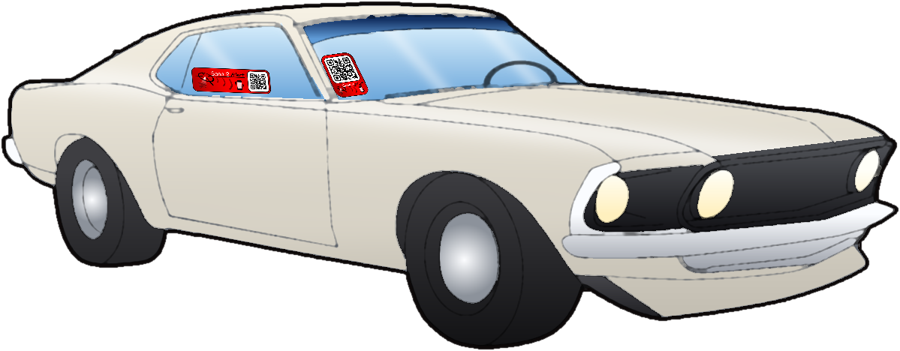
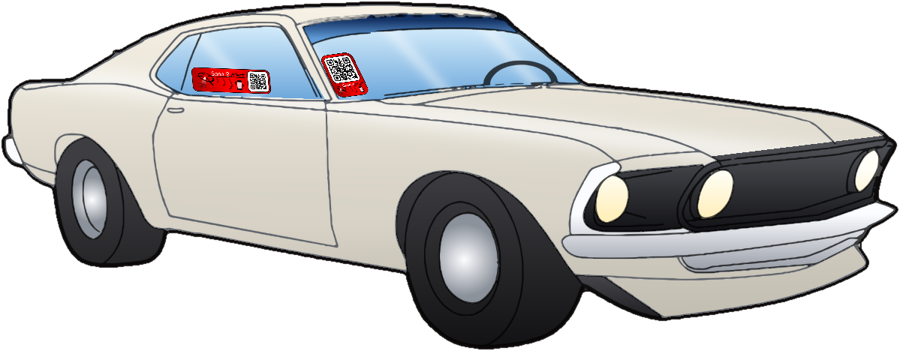
Mustang: líneas vectorizadas, lisas y rectas
Claude-Session: https://claude.ai/code/session_013R8ZDYyWaBdvK9dXFoGibW

diff --git a/index.html b/index.html
@@ -172,7 +172,7 @@ footer a{color:#fff;text-decoration:none}
   <h2>Un ejemplo: tu coche</h2>
   <p class="sub">Luces encendidas, mal aparcado, un golpe… Te avisan en segundos, sin tu número.<br><b style="color:var(--ink)">Quien escanea no necesita ninguna app: basta con la cámara del móvil.</b></p>
   <div class="carrow">
-    <figure class="cf big"><img class="tint" src="/img/mustang.png?v=3" alt="Mustang con las pegatinas Scan 2 Alert en el parabrisas y la ventanilla"><figcaption>Pégala por dentro del cristal, en espejo.<br>Elige un rojo intenso o un color más discreto: <span class="sw"><button type="button" class="swb on" data-c="#fe0000" title="Rojo" aria-label="Rojo" style="background:#fe0000"></button><button type="button" class="swb" data-c="#ff3300" title="Naranja" aria-label="Naranja" style="background:#ff3300"></button><button type="button" class="swb" data-c="#f6df00" title="Amarillo" aria-label="Amarillo" style="background:#f6df00"></button><button type="button" class="swb" data-c="#2e9e3a" title="Verde" aria-label="Verde" style="background:#2e9e3a"></button><button type="button" class="swb" data-c="#f0599b" title="Rosa" aria-label="Rosa" style="background:#f0599b"></button><button type="button" class="swb" data-c="#004c98" title="Azul" aria-label="Azul" style="background:#004c98"></button><button type="button" class="swb" data-c="#009cd7" title="Azul claro" aria-label="Azul claro" style="background:#009cd7"></button><button type="button" class="swb" data-c="#b4b9bc" title="Gris claro" aria-label="Gris claro" style="background:#b4b9bc"></button><button type="button" class="swb" data-c="#4a4f53" title="Gris oscuro" aria-label="Gris oscuro" style="background:#4a4f53"></button></span></figcaption></figure>
+    <figure class="cf big"><img class="tint" src="/img/mustang.png?v=4" alt="Mustang con las pegatinas Scan 2 Alert en el parabrisas y la ventanilla"><figcaption>Pégala por dentro del cristal, en espejo.<br>Elige un rojo intenso o un color más discreto: <span class="sw"><button type="button" class="swb on" data-c="#fe0000" title="Rojo" aria-label="Rojo" style="background:#fe0000"></button><button type="button" class="swb" data-c="#ff3300" title="Naranja" aria-label="Naranja" style="background:#ff3300"></button><button type="button" class="swb" data-c="#f6df00" title="Amarillo" aria-label="Amarillo" style="background:#f6df00"></button><button type="button" class="swb" data-c="#2e9e3a" title="Verde" aria-label="Verde" style="background:#2e9e3a"></button><button type="button" class="swb" data-c="#f0599b" title="Rosa" aria-label="Rosa" style="background:#f0599b"></button><button type="button" class="swb" data-c="#004c98" title="Azul" aria-label="Azul" style="background:#004c98"></button><button type="button" class="swb" data-c="#009cd7" title="Azul claro" aria-label="Azul claro" style="background:#009cd7"></button><button type="button" class="swb" data-c="#b4b9bc" title="Gris claro" aria-label="Gris claro" style="background:#b4b9bc"></button><button type="button" class="swb" data-c="#4a4f53" title="Gris oscuro" aria-label="Gris oscuro" style="background:#4a4f53"></button></span></figcaption></figure>
     <figure class="cf"><img class="tint" src="/img/pegatina-qr-redondeado.png" alt="Pegatina vertical"><figcaption>Parabrisas y luna trasera</figcaption></figure>
     <figure class="cf"><img class="tint" src="/img/pegatina-horizontal.png?v=2" alt="Pegatina horizontal" style="width:100%"><figcaption>Ventanillas laterales</figcaption></figure>
     <figure class="cf"><div class="phw"><img class="bm tl" src="/img/boomerang-rojo.png" alt=""><img class="bm tr" src="/img/boomerang-rojo.png" alt=""><img class="bm bl" src="/img/boomerang-rojo.png" alt=""><img class="bm br" src="/img/boomerang-rojo.png" alt=""><div class="ph" aria-label="Móvil sonando con la alerta a pantalla completa"><div class="scr"><small class="mm">Mi Mustang molesta</small><span class="sir"><img class="bn" src="/img/sirena-bn.png" alt=""><img class="rj" src="/img/sirena.png" alt=""></span><b>¡ALERTA!</b><em>Te avisan de tu coche</em></div></div></div><figcaption>Sirena en tu móvil</figcaption></figure>
